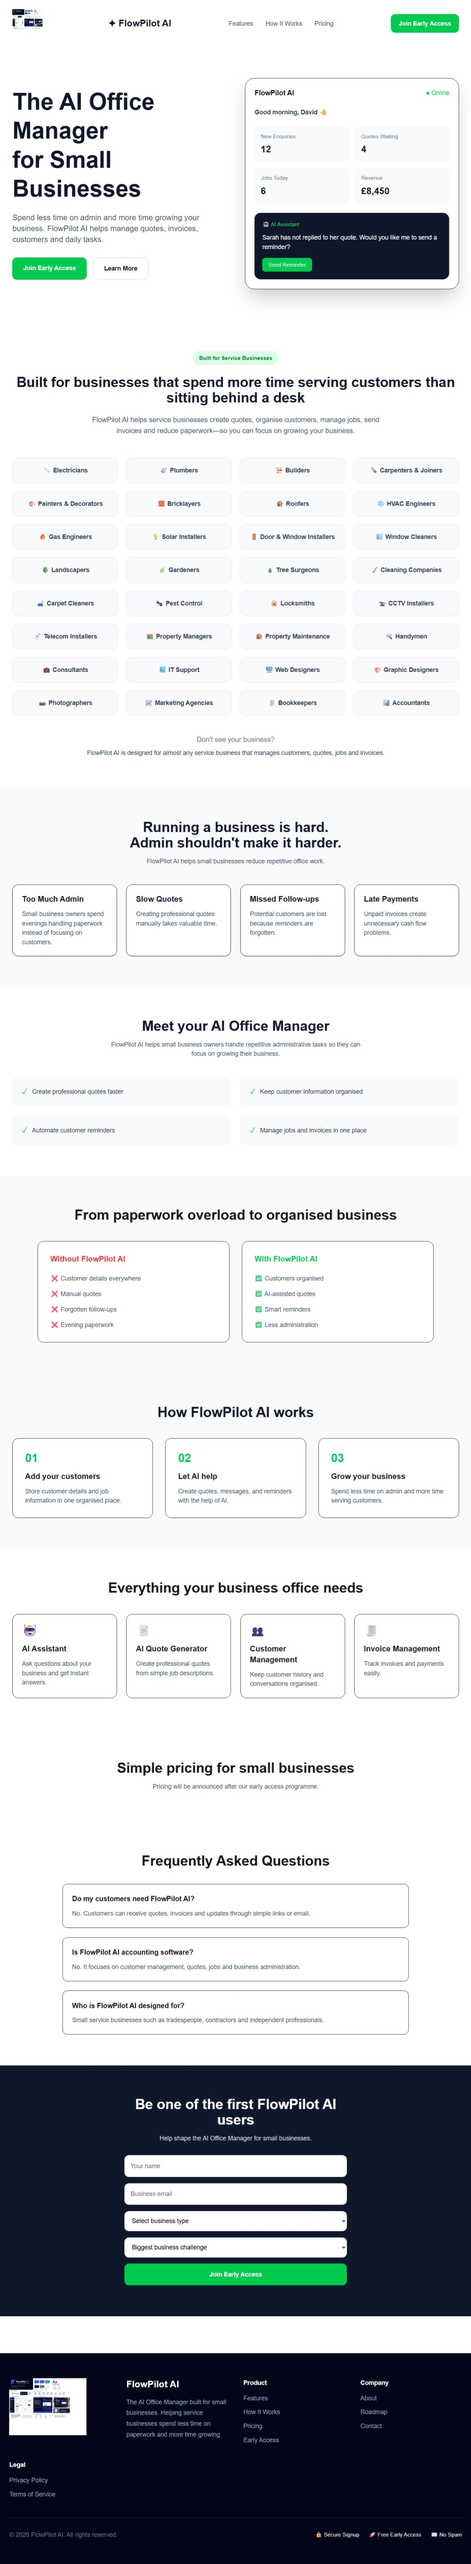
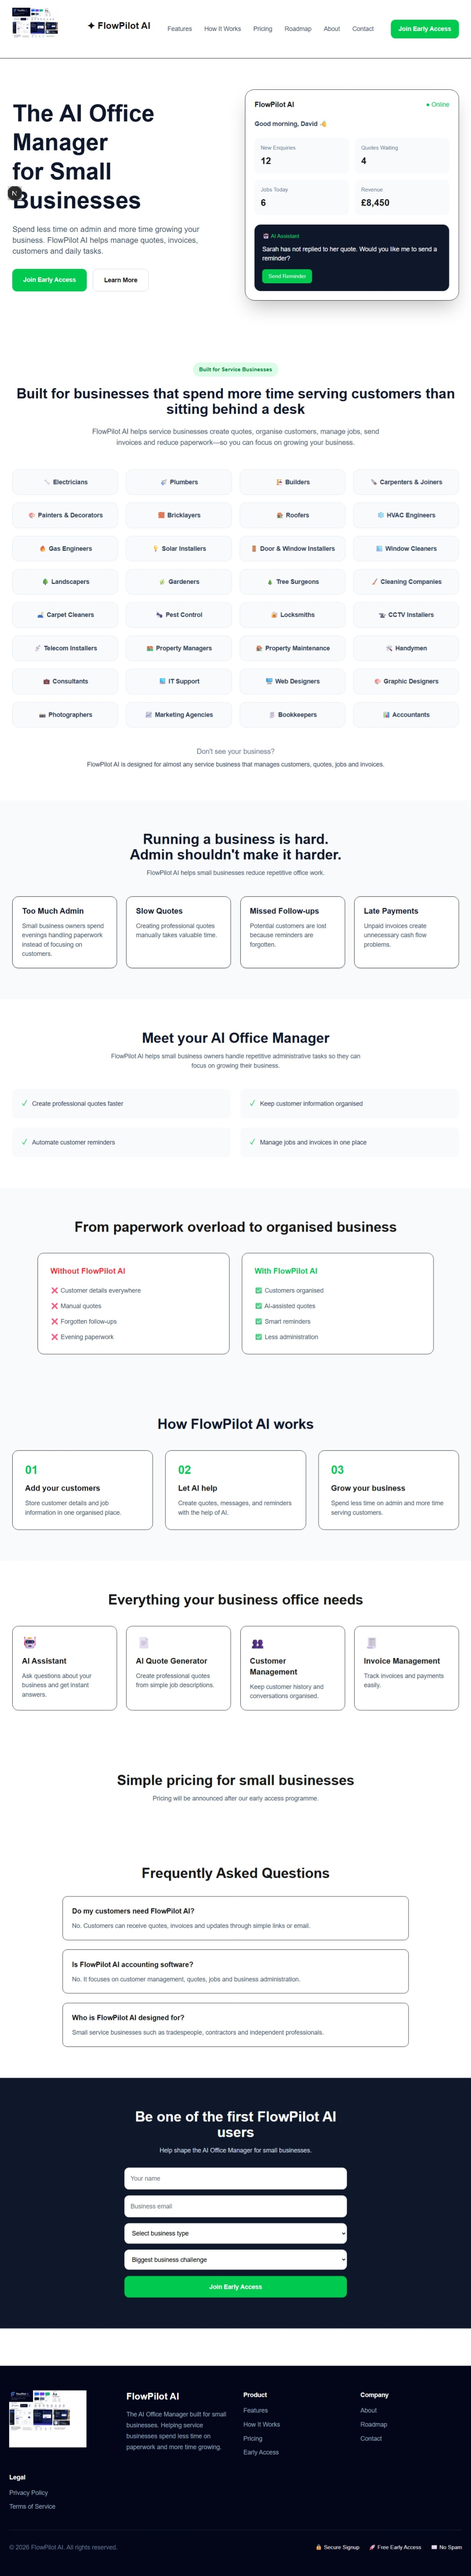
Add structured data for SEO

diff --git a/components/landing/Navbar.tsx b/components/landing/Navbar.tsx
@@ -12,19 +12,21 @@ export default function Navbar() {
       <div className="flex items-center justify-between max-w-7xl mx-auto px-8 py-5">
 
         {/* Logo */}
-        <Link href="/" className="flex items-center gap-3">
-          <Image
-            src="/logo.png"
-            width={50}
-            height={50}
-            alt="FlowPilot AI"
-            className="h-auto"
-          />
+        <Image
+    src="/logo.png"
+    width={150}
+    height={150}
+    alt="FlowPilot AI"
+    className="h-auto w-[150px]"
+  />
+  
+   <div>
 
-          <span className="text-2xl font-bold text-slate-900">
-            ✦ FlowPilot AI
-          </span>
-        </Link>
+            <h2 className="text-2xl font-bold mb-4">
+              <span>✦ FlowPilot AI</span>
+            </h2>
+
+          </div>
 
         {/* Desktop Menu */}
         <div className="hidden md:flex items-center gap-8 text-slate-600">

diff --git a/app/layout.tsx b/app/layout.tsx
@@ -80,11 +80,38 @@ export default function RootLayout({
 }: Readonly<{
   children: React.ReactNode;
 }>) {
+	const structuredData = {
+  "@context": "https://schema.org",
+  "@type": "SoftwareApplication",
+  name: "FlowPilot AI",
+  applicationCategory: "BusinessApplication",
+  operatingSystem: "Web Browser",
+  description:
+    "AI Office Manager for small businesses. Manage customers, quotes, jobs and invoices with AI.",
+  url: "https://flowpilot-ai-orcin.vercel.app",
+  image: "https://flowpilot-ai-orcin.vercel.app/og-image.png",
+  offers: {
+    "@type": "Offer",
+    price: "0",
+    priceCurrency: "GBP",
+  },
+  creator: {
+    "@type": "Organization",
+    name: "FlowPilot AI",
+  },
+};
 
   return (
     <html lang="en">
 
      <body>
+	 
+	 <script
+  type="application/ld+json"
+  dangerouslySetInnerHTML={{
+    __html: JSON.stringify(structuredData),
+  }}
+/>
 
 {children}
 
